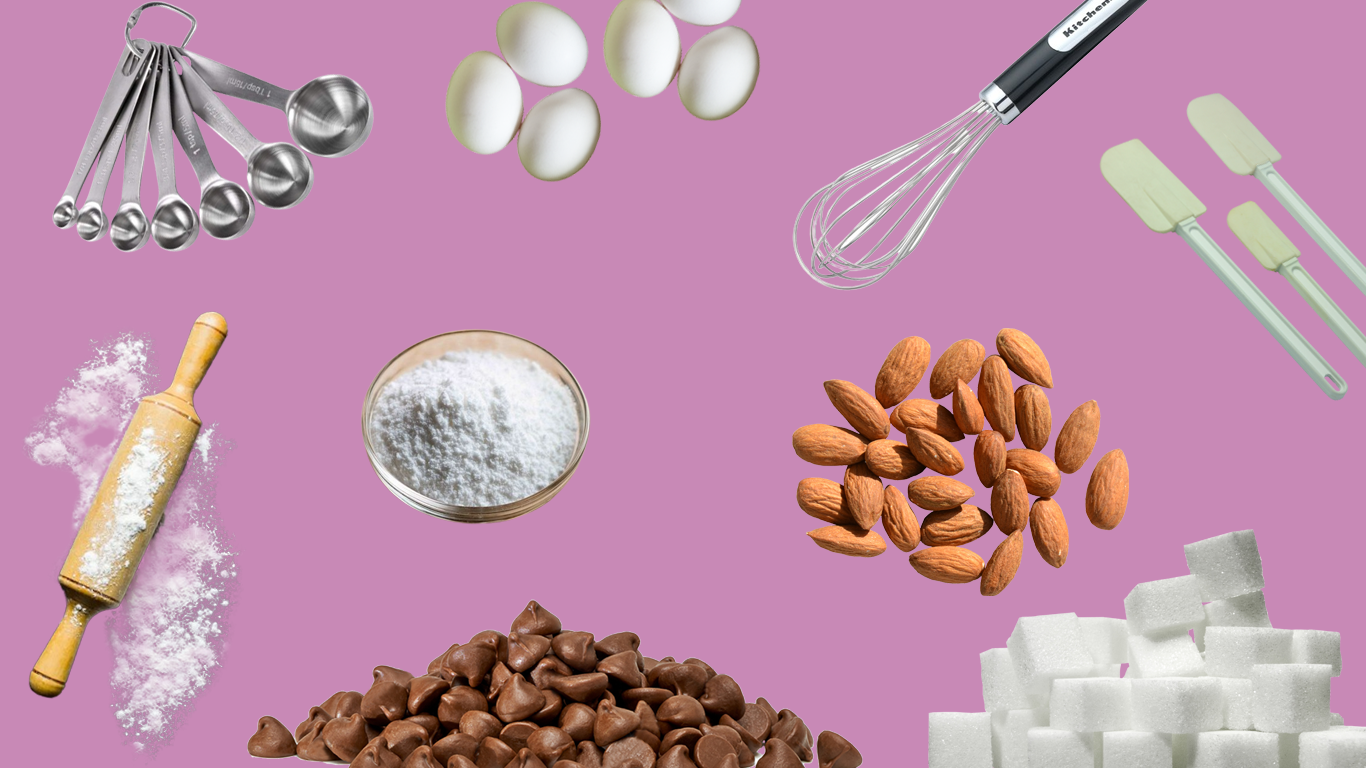
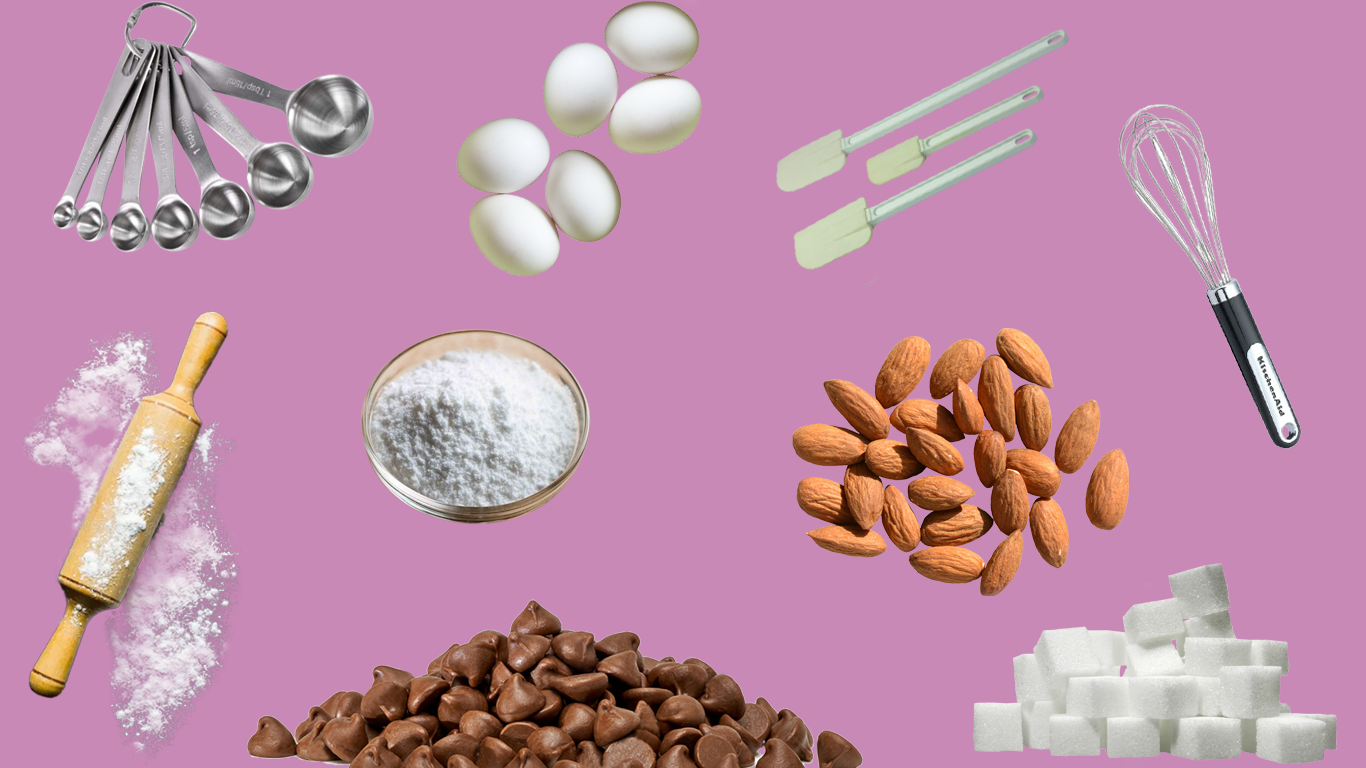
changes in bg photo | responsive bg fixed

diff --git a/stylesheetadmin.css b/stylesheetadmin.css
@@ -13,8 +13,12 @@ body {
     align-items: center;
     min-height: 100vh;
     background: center;
-	color:rgb(255, 80, 167);
+	background-repeat: no-repeat;
     background-image: url('images/trytry.png');
+	background-size: contain;
+    background-position: center center;
+    position:relative;
+	background-color: rgb(200, 137, 182);
 }
 
 .admin-login {
